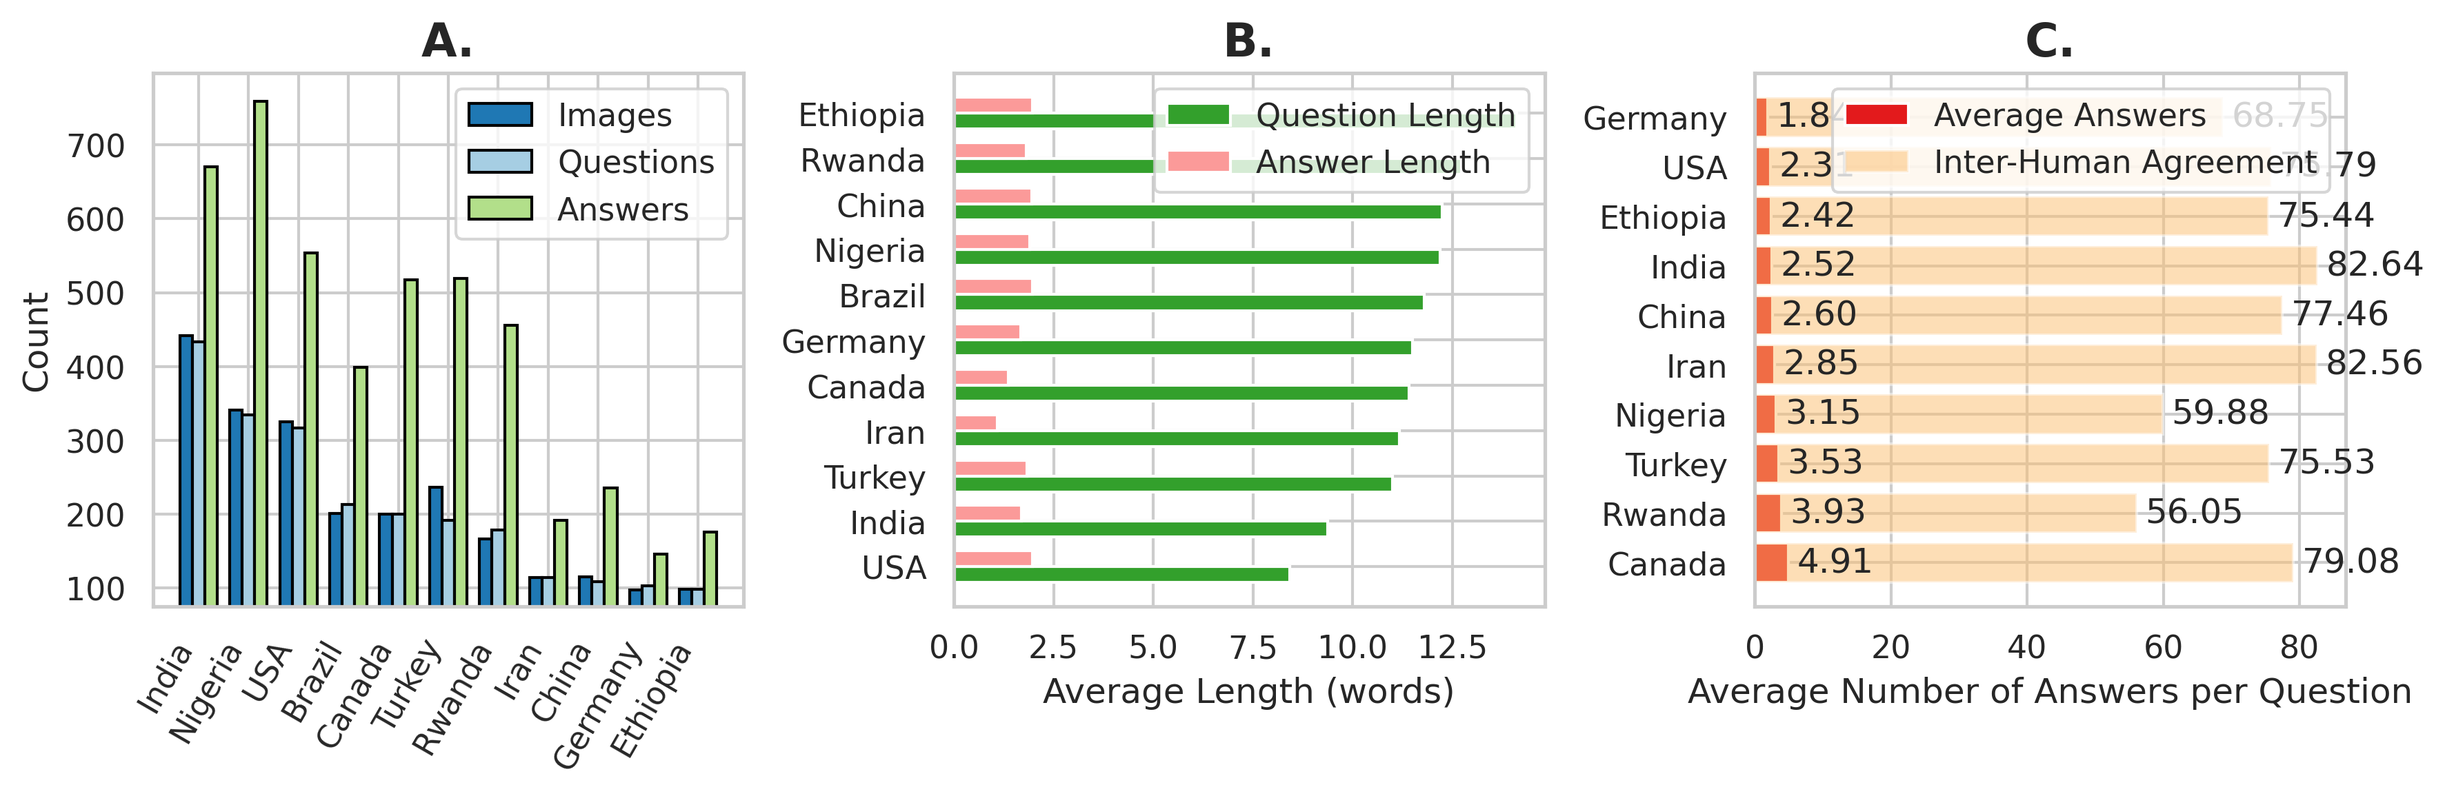
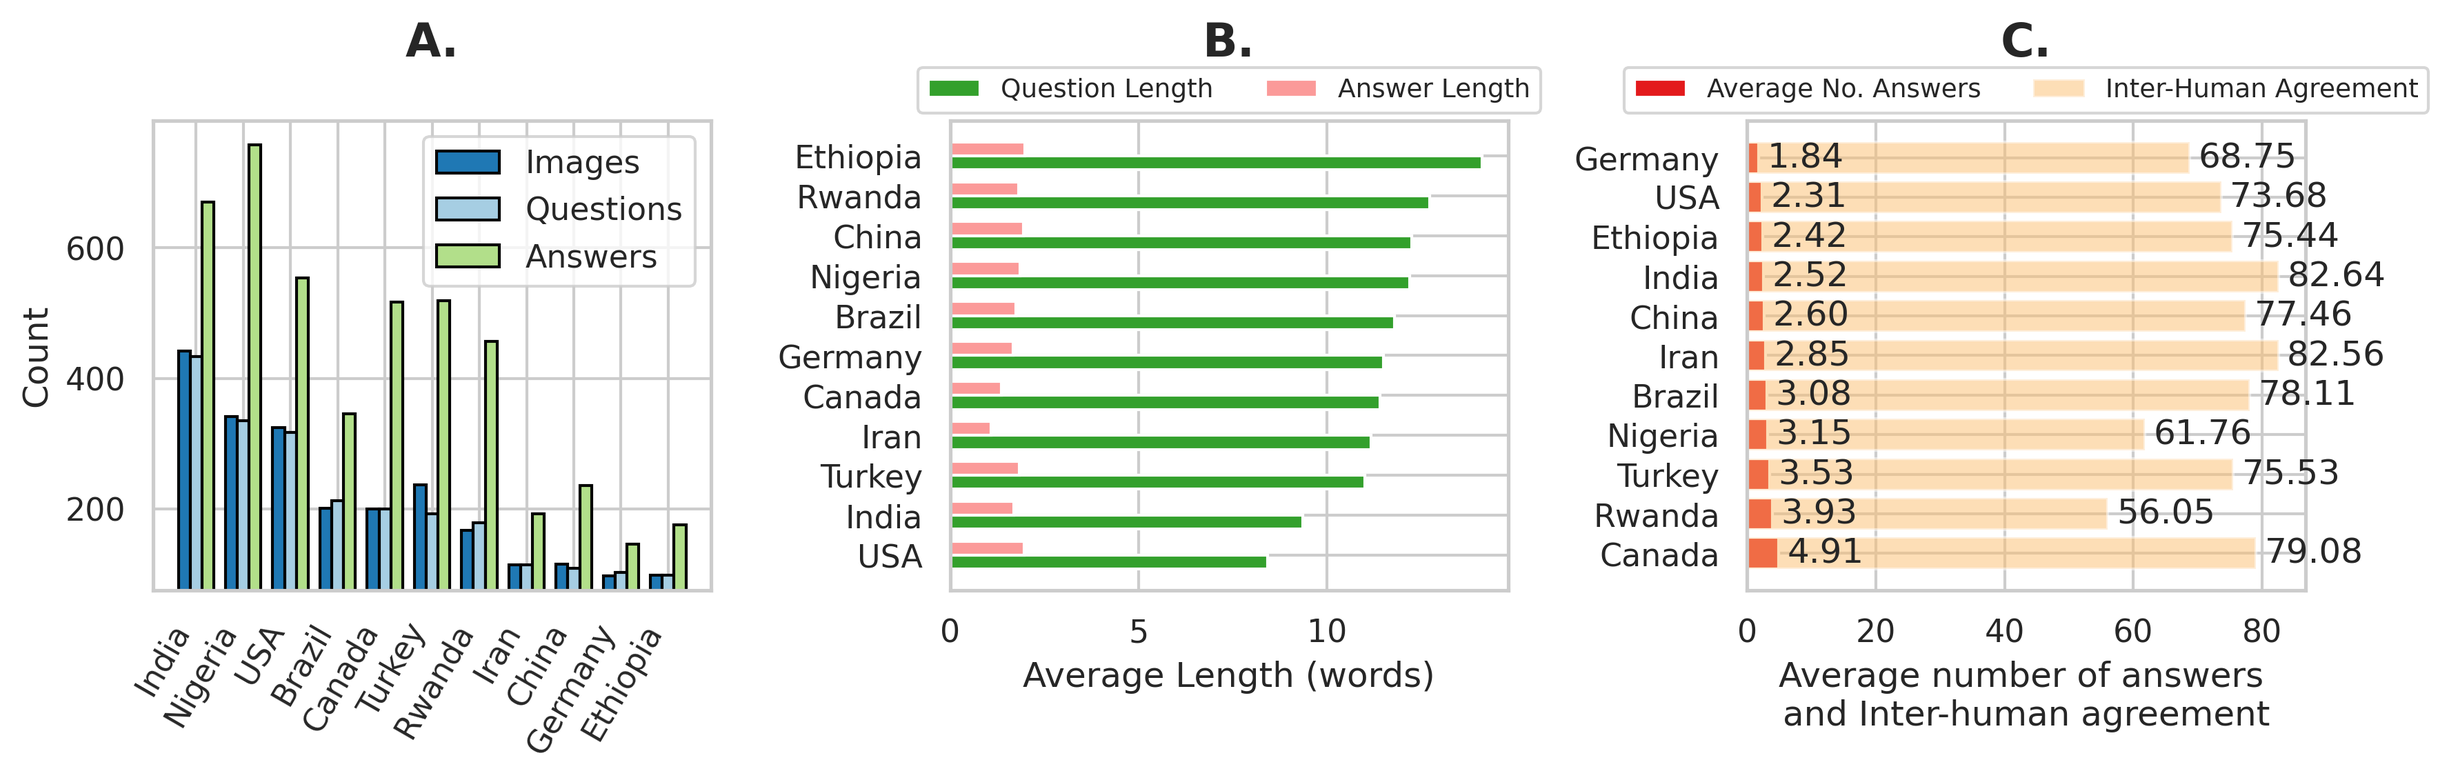
updated website with new results

Changed region(s): [[0.0, 0.0309, 0.9929, 0.9284], [0.0621, 0.8046, 0.2793, 0.9593], [0.3724, 0.8046, 0.4034, 0.8355]]

diff --git a/index.html b/index.html
@@ -95,9 +95,9 @@
                         <a href="" target="_blank"
                         class="external-link button is-normal is-rounded is-dark">
                         <span class="icon">
-                          <i class="fas fa-file-pdf"></i>
+                          <i class="fas fa-database"></i>
                         </span>
-                        <span>Paper</span>
+                        <span>Dataset (incoming)</span>
                       </a>
                     </span>
 
@@ -125,12 +125,12 @@
 
                 <!-- ArXiv abstract Link -->
                 <span class="link-block">
-                  <a href="https://arxiv.org/abs/<ARXIV PAPER ID>" target="_blank"
+                  <a href="https://arxiv.org/abs/2407.10920" target="_blank"
                   class="external-link button is-normal is-rounded is-dark">
                   <span class="icon">
                     <i class="ai ai-arxiv"></i>
                   </span>
-                  <span>arXiv (incoming)</span>
+                  <span>arXiv</span>
                 </a>
               </span>
             </div>
@@ -146,10 +146,11 @@
 <section class="hero teaser">
   <div class="container is-max-desktop">
     <div class="hero-body">
-      <img src="static/images/culture_vqa_samples.jpg" id="tree" alt="cultural vqa dataset random samples" style="width:100%; height:auto;">
-      <h2 class="subtitle has-text-centered">
-        Overview of our VisMIn benchmark. ViMin consists of four types of minimal-changes -- object, attribute, count and spatial relation -- between two image-captions pairs. The evaluation task requires a model to predict the correct image-caption match given: 1) two images and one caption, 2) two captions and one image.
-      </h2>
+      <img src="static/images/culture_vqa_samples.jpg" id="tree" alt="cultural vqa dataset random samples" style="width:100%; height:auto;"> 
+      <br><br>
+      <p class="subtitle has-text-centered">
+        Samples from CulturalVQA. Our dataset is comprised of images presenting cultural concepts from 11 countries across five facets: traditions, rituals, food, drink, and clothing. It further includes questions probing cultural understanding of the concepts presented in the images and answers to these questions.
+      </p>
     </div>
   </div>
 </section>
@@ -163,11 +164,10 @@
         <h2 class="title is-3">Abstract</h2>
         <div class="content has-text-justified">
           <p>
-            Foundation models and vision-language pre-training have notably advanced Vision Language Models (VLMs), enabling multimodal processing of visual and linguistic data. However, their performance has been typically assessed on general scene understanding -- recognizing objects, attributes, and actions -- rather than cultural comprehension.
-          This study introduces \dataset, a visual question-answering benchmark aimed at assessing VLM's geo-diverse cultural understanding. We curate a diverse collection of \nquestions image - question pairs with 1-5 answers per question representing cultures from \ncountries countries across 5 continents. % To this end, we curate a cultural-aware repository of image--text pairs comprising a wide array of multicultural visual concepts. 
-    The questions probe understanding of various facets of culture such as clothing, food, drinks, rituals, and traditions.
-  Benchmarking VLMs on \dataset, including GPT-4V and Gemini, reveals disparity in their level of cultural understanding across regions, with strong cultural understanding capabilities for North America while significantly weaker capabilities for Africa. We observe disparity in their performance across cultural facets too, with clothing, rituals, and traditions seeing higher performances than food and drink.   
-  These disparities help us identify areas where VLMs lack cultural understanding and demonstrate the potential of \dataset as a comprehensive evaluation set for gauging VLM progress in understanding diverse cultures.
+            Foundation models and vision-language pre-training have notably advanced Vision Language Models (VLMs), enabling multimodal processing of visual and linguistic data. However, their performance has been typically assessed on general scene understanding - recognizing objects, attributes, and actions - rather than cultural comprehension.
+          This study introduces CulturalVQA, a visual question-answering benchmark aimed at assessing VLM's geo-diverse cultural understanding. We curate a diverse collection of 2378 image - question pairs with 1-5 answers per question representing cultures from 11 countries across 5 continents. The questions probe understanding of various facets of culture such as clothing, food, drinks, rituals, and traditions.
+ Benchmarking VLMs on CulturalVQA, including GPT-4V and Gemini, reveals disparity in their level of cultural understanding across regions, with strong cultural understanding capabilities for North America while significantly weaker capabilities for Africa. We observe disparity in their performance across cultural facets too, with clothing, rituals, and traditions seeing higher performances than food and drink.   
+  These disparities help us identify areas where VLMs lack cultural understanding and demonstrate the potential of CulturalVQA as a comprehensive evaluation set for gauging VLM progress in understanding diverse cultures.
           </p>
         </div>
       </div>
@@ -178,34 +178,34 @@
 
 
 <!-- Image carousel -->
-<section class="hero is-small">
+<!-- <section class="hero is-small">
   <div class="hero-body">
     <div class="container">
       <div id="results-carousel" class="carousel results-carousel">
-       <div class="item">
+       <div class="item"> -->
         <!-- Your image here -->
-        <img src="static/images/carousel1.jpg" alt="MY ALT TEXT"/>
+        <!-- <img src="static/images/carousel1.jpg" alt="MY ALT TEXT"/>
         <h2 class="subtitle has-text-centered">
           First image description.
         </h2>
       </div>
-      <div class="item">
+      <div class="item"> -->
         <!-- Your image here -->
-        <img src="static/images/carousel2.jpg" alt="MY ALT TEXT"/>
+        <!-- <img src="static/images/carousel2.jpg" alt="MY ALT TEXT"/>
         <h2 class="subtitle has-text-centered">
           Second image description.
         </h2>
       </div>
-      <div class="item">
+      <div class="item"> -->
         <!-- Your image here -->
-        <img src="static/images/carousel3.jpg" alt="MY ALT TEXT"/>
+        <!-- <img src="static/images/carousel3.jpg" alt="MY ALT TEXT"/>
         <h2 class="subtitle has-text-centered">
          Third image description.
        </h2>
      </div>
-     <div class="item">
+     <div class="item"> -->
       <!-- Your image here -->
-      <img src="static/images/carousel4.jpg" alt="MY ALT TEXT"/>
+      <!-- <img src="static/images/carousel4.jpg" alt="MY ALT TEXT"/>
       <h2 class="subtitle has-text-centered">
         Fourth image description.
       </h2>
@@ -213,7 +213,7 @@
   </div>
 </div>
 </div>
-</section>
+</section> -->
 <!-- End image carousel -->
 
 
@@ -222,49 +222,85 @@
   <div class="container is-max-desktop">
     <h2 class="title is-3">Dataset analysis</h2>
       <div class = "content has-text-justified">
-      <p><strong>Images, Question and Answer:</strong> Our dataset comprises of unique images. We collected questions in total. We present the number of unique questions per country (below). Our dataset consists of manually curated answers in total.</p>    
+      <p><strong>Images, Question and Answer:</strong> Our dataset comprises of 2328 unique images. We collected 2378 questions in total from 11 countries asking the local annotators to create questions for images from their culture such that it is easy for the locals to answer but challenging for outsiders. We present the number of unique questions per country (below). Our dataset consists of 7206 manually curated answers in total (each question has 1-5 answers).</p>    
       <figure class="image is-inline-block">
         <img src="static/images/comprehensive_country_data_analysis.png" alt="anlaysis">
       </figure>
-      <p>Comparative analysis of data by country. The figure presents three aspects: (A) unique counts of images, questions, and answers, (B) average lengths of questions and answers, and (C) average confidence scores across countries, showcasing variations and trends in \dataset.</p>
+      <p style="text-align: center;">Comparative analysis of data by country. The figure presents three aspects: (A) unique counts of images, questions, and answers, (B) average lengths of questions and answers, and (C) average number of answers and inter-annotator agreement scores across countries, showcasing variations and trends in CulturalVQA.</p>
       </div>
 
       <div class="content has-text-justified">
       <p><strong>Cultural concepts:</strong> According to the pie chart in the figure below, food-related questions are most prevalent, accounting for 31.6% of the dataset, followed closely by traditions and rituals, which represent 28.6% and 22.6% respectively. Thus, roughly 50% of the questions in our dataset probe for cultural understanding of the intangible aspects of culture (rituals and traditions)! The <strong>word clouds</strong> generated from the collected answers reveal diverse expressions of rituals and traditions represented by terms like <em>hamam</em> (Turkey) and <em>meskel</em> (Ethiopia). Further, the food category includes diverse items such as <em>feijoada</em> (Brazil), <em>fufu</em> (Nigeria), and <em>vada</em> (India) indicating a geo-diverse culinary scope. While the clothing category is the least prevalent in the dataset, it shows the highest variety in terms of collected answers.</p>      
       <figure class="image is-inline-block">
-        <img src="static/images/facet_analysis_wordclouds_pie_chart.png" alt="anlaysis">
+        <img src="static/images/facets.png" alt="anlaysis">
       </figure>
+      <p style="text-align: center;">Word clouds representing the answers in CulturalVQA across five facets of culture: clothing, drink, food, rituals, and traditions. In the bottom right, a breakdown of cultural facets in data is depicted.</p>
       </div> 
   </div>
 </section>
 <!-- End of Dataset Analysis-->
-
 <!-- Model Performance-->
 <section class="section">
   <div class="container is-max-desktop">
     <h2 class="title is-3">Benchmarking</h2>
-    <h3 class="title is-4">Open-source and closed-source models</h3>
-    <div class="content has-text-justified">
-      <p>We report the LAVE scores of open-source and closed-source vision-language models on the proposed \dataset benchmark, which range across countries from 43\% to 72\% for \textsc{GPT-4}, the best-performing model. The results indicate a significant performance gap between closed-source models and the best-performing open-source models (\textsc{Intern-VL} for most cases), with an average difference of 11.71\% points. This gap is particularly pronounced in countries from Africa (Ethiopia, Nigeria) and the Middle East (Iran, Turkey).</p>
-      <figure class="image is-inline-block">
-        <img src="static/images/lave_score_models_main_table.png" alt="model performance">
-      </figure>
-    </div>
 
     <h3 class="title is-4">Degree of visual understanding required</h3>
-    <p>Our evaluations with GPT-4 show that while adding country and visual contexts improves accuracy, they still fall short compared to the full vision-language model (VLM) that integrates detailed visual information. This confirms that accurate answers require a substantial degree of visual comprehension.</p>      
+    <p>Our evaluations with GPT-4 show that while adding country and, visual contexts in the form of google lens entities improves accuracy, they still fall short compared to the full vision-language model (VLM) that integrates detailed visual information. This confirms that accurate answers require a substantial degree of visual comprehension.</p>      
     <div class="content has-text-justified">
-      <figure class="image is-inline-block">
-        <img src="static/images/llm_only_performance.png" alt="model performance">
+      <figure>
+        <img style="height: 500px; width: 500px; display: block; margin: auto;" src="static/images/llm_only_performance.png" alt="model performance">
       </figure>
+      <p style="text-align: center;">
+        Baseline evaluation of the degree of visual understanding required in CulturalVQA: LLM-only, LLM with a country-specific context, LLM with Google Lens entities, and GPT-4V.
+      </p>
     </div>
 
-    <h3 class="title is-4">Human vs. AI Performance on Cultural Questions</h3>
-    <div>
-      <p>In our evaluation using the LAVE metric on 1,325 culturally themed questions, humans familiar with the specific cultures achieved accuracy between 55% and 85%, with countries like Iran seeing scores over 80%. However, a significant gap was observed when comparing these results to AI performance using GPT-4, particularly in non-Western countries such as Iran, Nigeria, and Ethiopia, where the discrepancy exceeded 33%. This highlights the AI's stronger grasp of Western cultural concepts due to their more prevalent representation in its training data.</p>
+    <h3 class="title is-4">Open-source and closed-source models</h3>
+    <div class="content has-text-justified">
+      <p>We report the LAVE scores of open-source and closed-source vision-language models on the proposed CulturalVQA benchmark, which range across countries from 43% to 72% for GPT-4, the best-performing model. Notably, there's a considerable performance gap between closed-source models and the best open-source models. This gap is striking in African-Islamic cultures (Ethiopia, Nigeria, Iran, and Turkey), with a 29.7% gap for Ethiopia, where models struggle the most.</p>
       <figure class="image is-inline-block">
-        <img src="static/images/human_performance_vs_models.png" alt="model performance">
+        <img src="static/images/model_performance.png" alt="model performance">
       </figure>
+      <p style="text-align: center;">
+        LAVE accuracies of open- and closed-source models on CulturalVQA. Best-performing results per country are highlighted in <span style="background-color: rgb(146, 241, 146)">green</span>, and best-performing results among open-source models are highlighted in <span style="background-color: rgb(148, 181, 233)">blue</span>.
+      </p>
+    </div>
+
+    <h3 class="title is-4">Performance across facets</h3>
+    <div class="content has-text-justified">
+      <p>We report the model performance across 5 cultural facets: food, drinks, clothing, rituals and traditions. Generally, we find that proprietary models tend to perform better on intangible concepts - rituals, and traditions, compared to drink and food. Indeed, the highest performance of GPT-4 is achieved in the rituals facet (>60%), whereas in the clothing facet, it achieves a lower performance of ~ 53%</p>
+      <figure>
+        <img style="height: 400px; width: 600px; display: block; margin: auto;" src="static/images/facet_wise_accuracy.png" alt="model performance">
+      </figure>
+      <p style="text-align: center;">
+        VLM performance across facets as measured using LAVE accuracies.
+      </p>
+    </div>
+
+  <h3 class="title is-4">Human vs. AI Performance on CulturalVQA</h3>
+    <div>
+      <p>In our evaluation using the LAVE metric on 1,455 questions, humans familiar with the specific cultures achieved accuracy between 55% and 85%, with countries like Iran seeing scores over 80%. However, a significant gap was observed when comparing these results to AI performance using GPT-4, particularly in non-Western countries such as  Iran, Nigeria, India, Turkey, and Ethiopia, where the discrepancy exceeded 10%. This highlights the AI's stronger grasp of Western cultural concepts due to their more prevalent representation in its training data.</p>
+      <br>
+      <figure>
+        <img style="height: 400px; width: 600px; display: block; margin: auto;" src="static/images/performance_difference.png" alt="model performance">
+      </figure>
+      <p style="text-align: center;">
+        Performance gap between the best open-source and closed-source models compared to human performance. Negative values indicate where models underperform relative to humans.
+      </p>
+    </div>
+
+  <br>
+  <h3 class="title is-4">Qualitative Analysis of GPT-4</h3>
+    <div>
+      <figure>
+        <img src="static/images/qualitative.png" alt="model performance">
+      </figure>
+      <p style="text-align: center;">
+        Qualitative failure examples of GPT-4 predictions.
+      </p>
+      <br>
+      <p>Our qualitative evaluation of the best-performing model, GPT-4, highlights its limitations in recognizing and interpreting cultural nuances. For instance, GPT-4 overlooks the cultural significance of intangible cultural concepts like coral beads in Nigeria, which symbolize wealth and heritage but are treated merely as decorative objects, as well as it fails to recognize the symbolic connection between cows and planet Earth in Indian culture (see figure above).
+      Focusing on tangible cultural concepts, the model's shortcomings are evident as it inaccurately recognizes cultural entities and objects. For instance, it mislabels <i>Naghali</i>, a traditional Iranian storyteller as a Dervish and mistakes a traditional Turkish tea glass for a tulip glass, commonly used for serving beer. These examples reveal how GPT-4 struggles with both tangible and intangible cultural concepts: it has difficulties distinguishing between visually similar but culturally distinct entities and objects, and it lacks a deep understanding of cultural beliefs and symbolic meanings.</p>
     </div>
   </div>
 
@@ -275,49 +311,47 @@
 
 
 <!-- Youtube video -->
-<section class="hero is-small is-light">
+<!-- <section class="hero is-small is-light">
   <div class="hero-body">
     <div class="container">
-      <!-- Paper video. -->
       <h2 class="title is-3">Video Presentation</h2>
       <div class="columns is-centered has-text-centered">
         <div class="column is-four-fifths">
           
           <div class="publication-video">
-            <!-- Youtube embed code here -->
             <iframe src="https://www.youtube.com/embed/JkaxUblCGz0" frameborder="0" allow="autoplay; encrypted-media" allowfullscreen></iframe>
           </div>
         </div>
       </div>
     </div>
   </div>
-</section>
+</section> -->
 <!-- End youtube video -->
 
 
 <!-- Video carousel -->
-<section class="hero is-small">
+<!-- <section class="hero is-small">
   <div class="hero-body">
     <div class="container">
       <h2 class="title is-3">Another Carousel</h2>
       <div id="results-carousel" class="carousel results-carousel">
         <div class="item item-video1">
           <video poster="" id="video1" autoplay controls muted loop height="100%">
-            <!-- Your video file here -->
+            
             <source src="static/videos/carousel1.mp4"
             type="video/mp4">
           </video>
         </div>
         <div class="item item-video2">
           <video poster="" id="video2" autoplay controls muted loop height="100%">
-            <!-- Your video file here -->
+            
             <source src="static/videos/carousel2.mp4"
             type="video/mp4">
           </video>
         </div>
         <div class="item item-video3">
           <video poster="" id="video3" autoplay controls muted loop height="100%">\
-            <!-- Your video file here -->
+            
             <source src="static/videos/carousel3.mp4"
             type="video/mp4">
           </video>
@@ -325,7 +359,7 @@
       </div>
     </div>
   </div>
-</section>
+</section> -->
 <!-- End video carousel -->
 
 
@@ -334,7 +368,7 @@
 
 
 <!-- Paper poster -->
-<section class="hero is-small is-light">
+<!-- <section class="hero is-small is-light">
   <div class="hero-body">
     <div class="container">
       <h2 class="title">Poster</h2>
@@ -344,7 +378,7 @@
         
       </div>
     </div>
-  </section>
+  </section> -->
 <!--End paper poster -->
 
 
@@ -354,12 +388,15 @@
     <h2 class="title is-3">Citation</h2>
     <p>If you found this work useful in your own research, please consider citing the following:</p>
       <pre><code>
-        @misc{Nayak2024Benchmarking,
-          title={Benchmarking Vision Language Models for Cultural Understanding},
-          author={Nayak, Shravan and Jain, Kanishk and Awal, Rabiul and Reddy, Siva and van Steenkiste, Sjoerd and Hendricks, Lisa Anne and Stanczak, Karolina and Agrawal, Aishwarya},
+        @misc{nayak2024benchmarkingvisionlanguagemodels,
+          title={Benchmarking Vision Language Models for Cultural Understanding}, 
+          author={Shravan Nayak and Kanishk Jain and Rabiul Awal and Siva Reddy and Sjoerd van Steenkiste and Lisa Anne Hendricks and Karolina Stańczak and Aishwarya Agrawal},
           year={2024},
-          note={Unpublished manuscript}
-        }
+          eprint={2407.10920},
+          archivePrefix={arXiv},
+          primaryClass={cs.CV},
+          url={https://arxiv.org/abs/2407.10920}, 
+    }
       </code></pre>
   </div>
 </section>
@@ -372,13 +409,9 @@
     <div class="columns is-centered">
       <div class="column is-8">
         <div class="content">
-
-          <p>
-            This page was built using the <a href="https://github.com/eliahuhorwitz/Academic-project-page-template" target="_blank">Academic Project Page Template</a> which was adopted from the <a href="https://nerfies.github.io" target="_blank">Nerfies</a> project page.
-            You are free to borrow the of this website, we just ask that you link back to this page in the footer. <br> This website is licensed under a <a rel="license"  href="http://creativecommons.org/licenses/by-sa/4.0/" target="_blank">Creative
-            Commons Attribution-ShareAlike 4.0 International License</a>.
+          <p style="text-align: center;">
+            This page was built using the <a href="https://github.com/eliahuhorwitz/Academic-project-page-template" target="_blank">Academic Project Page Template</a>.</a>
           </p>
-
         </div>
       </div>
     </div>
